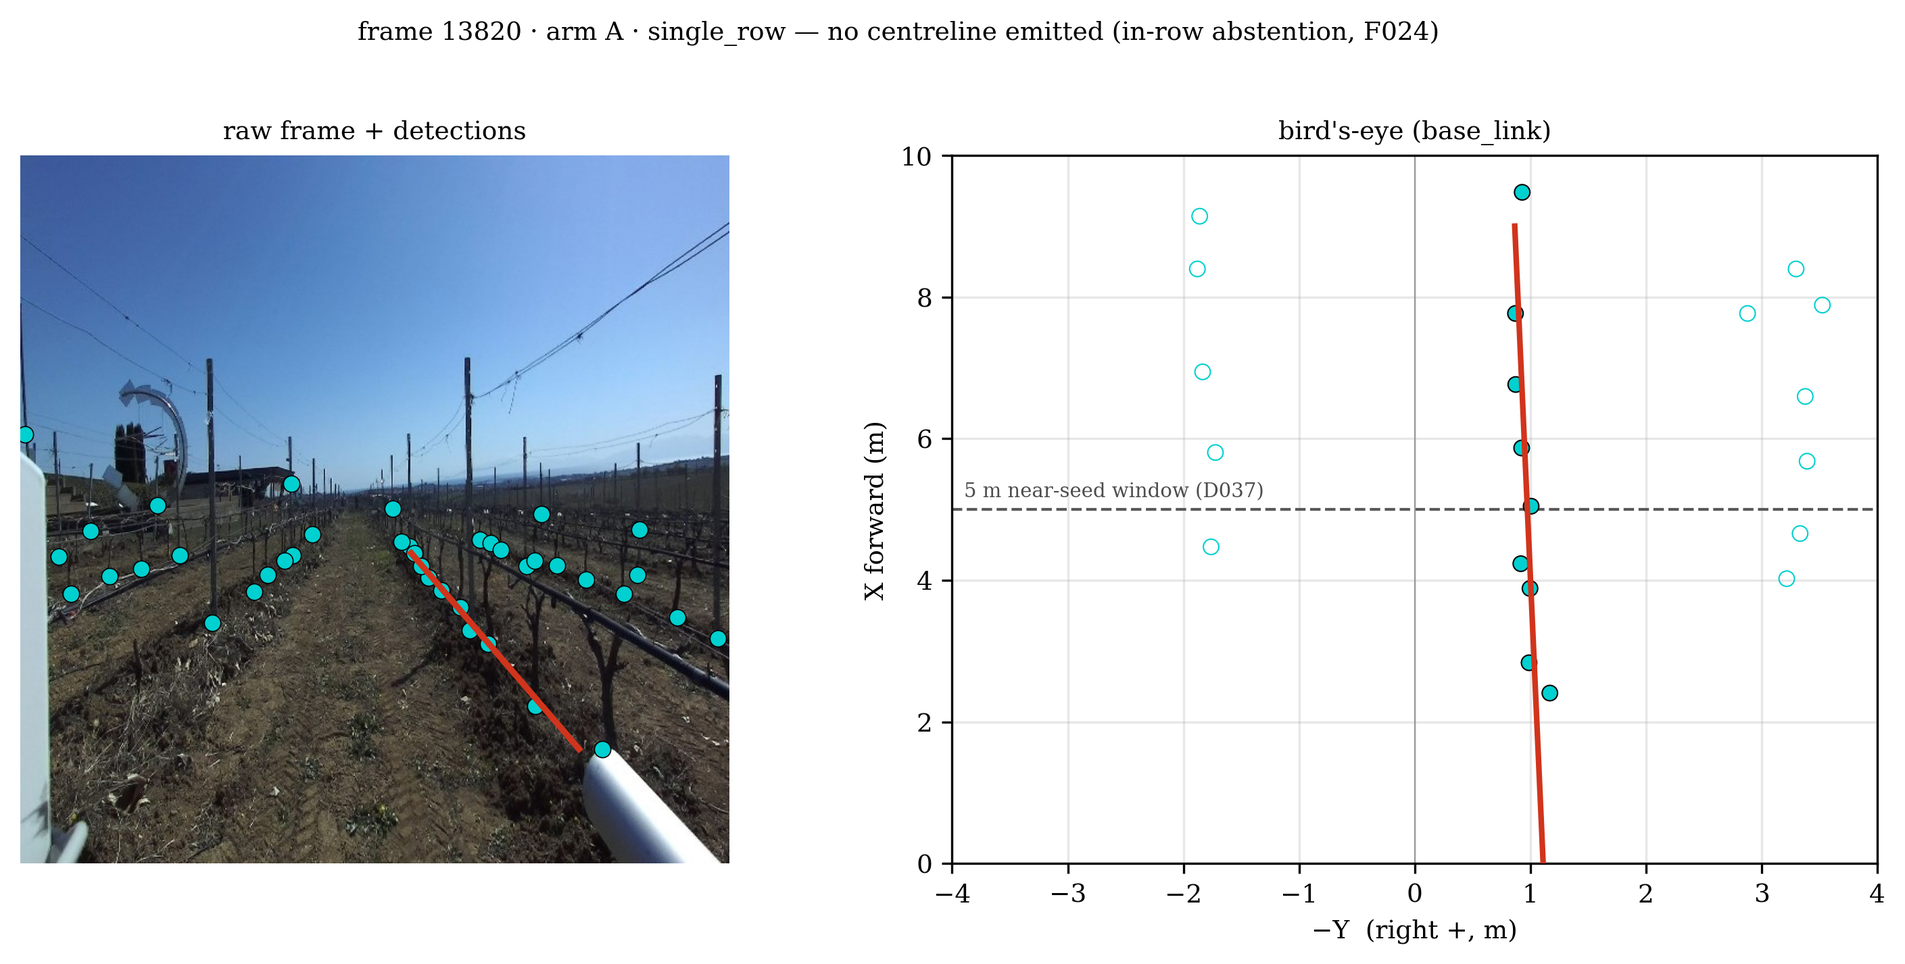
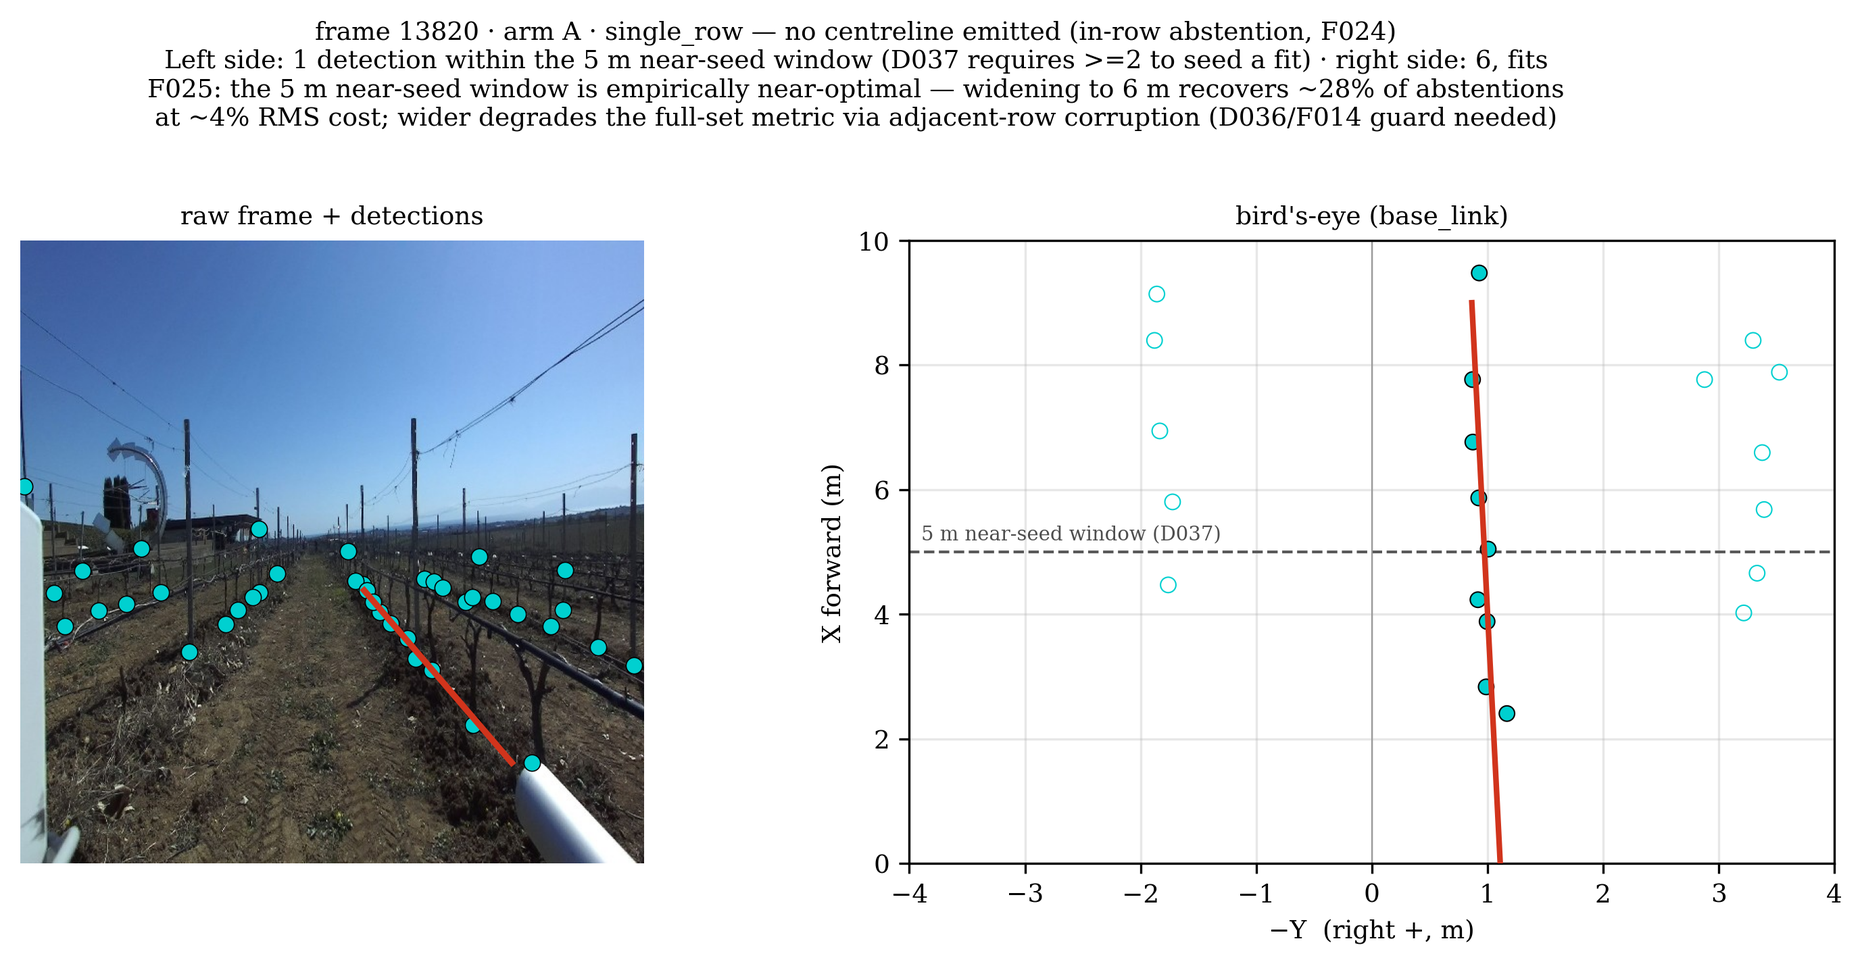
fix(geom): sharpen F024 near-seed mechanism (count >=2 within 5 m) + Fig 4b cites F025 (Commit 11)
Two corrections to the F024/F025 abstention wording, folded into ONE forward commit
(Commit 8, where F024 landed, is already pushed -- amending it would rewrite published
history; a forward correction keeps the strand history linear and avoids a double Fig 4b
regeneration).

1. F024 near-seed mechanism -- PRECISION FIX. The rejection reason `too_few_near_seed` is
   a COUNT criterion: `fit_side_far` requires >= 2 detections WITHIN the 5 m near-seed
   window to seed a side (row_model.py: `if near_mask.sum() < 2`). The prior wording
   ("points beyond the 5 m window") wrongly implied a distance criterion. Frame 13820
   arm A LEFT side has 1 detection within 5 m (9 beyond) -> `too_few_near_seed` on the
   COUNT, not because all points are beyond. Corrected in FINDINGS.md (F024 Finding +
   Writeup, in place) and STATUS.md (O017 + roadmap). Headline claims UNCHANGED (~13%
   abstention, dominant `too_few_near_seed` 67-73%, second row detected ~96%, arm-
   invariance -- all hold); only the mechanism description is sharpened. The census
   reconciles: `too_few_near_seed` 67-73% = not-detected 3-4% + detected-but-<2-near
   64-70%; the >=2-near-but-failed group (27-32%) fails on the other reasons.
   GEOMETRY_PIPELINE_SPEC has no such reference; single_row_analysis.py already uses the
   accurate "detected-but-unseeded" wording (no committed-script touch).

2. Fig 4b caption cites F025 + the corrected per-side count. figures.py: `caption_extra`
[…]

diff --git a/vineyard_nav/scripts/geometric/figures.py b/vineyard_nav/scripts/geometric/figures.py
@@ -262,7 +262,7 @@ def _load(bag, scope, frame):
 
 
 # ================= public per-frame plot functions =================
-def plot_in_row_frame(bag, frame, arm="A", seed=42, *, anatomy=False, near_seed=False, tag="in_row", fname=None):
+def plot_in_row_frame(bag, frame, arm="A", seed=42, *, anatomy=False, near_seed=False, caption_extra=None, tag="in_row", fname=None):
     B, img = _load(bag, "eligible", frame)
     base = frontend(arm, seed, img); o = fit_frame(base); assert_csv("eligible", B, arm, seed, frame, o)
     fig, ax = plt.subplots(1, 2, figsize=(10, 4.6))
@@ -273,6 +273,7 @@ def plot_in_row_frame(bag, frame, arm="A", seed=42, *, anatomy=False, near_seed=
     else:
         cap = f"frame {frame} · arm {arm} · {o['cls']} — no centreline emitted (in-row abstention, F024)"
     if anatomy: cap += "\nbase_link forward = red dotted · 2 m look-ahead = green star"
+    if caption_extra: cap += "\n" + caption_extra
     fig.suptitle(cap, y=1.02, fontsize=9)
     fig.tight_layout(); p = _out(bag, tag, fname or f"fig_{frame}_{arm}.png"); fig.savefig(p); plt.close(fig)
     return p
@@ -485,7 +486,10 @@ def build(bag, only=None):
         "2b": lambda: fig_forest(bag),
         "3":  lambda: fig_tilt_sensor(bag),
         "4":  lambda: plot_in_row_frame(bag, 10247, "C", fname="fig4_mechanism_10247_C.png"),
-        "4b": lambda: plot_in_row_frame(bag, 13820, "A", near_seed=True, fname="fig4b_abstention_13820.png"),
+        "4b": lambda: plot_in_row_frame(bag, 13820, "A", near_seed=True, fname="fig4b_abstention_13820.png",
+              caption_extra="Left side: 1 detection within the 5 m near-seed window (D037 requires >=2 to seed a fit) · right side: 6, fits\n"
+                            "F025: the 5 m near-seed window is empirically near-optimal — widening to 6 m recovers ~28% of abstentions\n"
+                            "at ~4% RMS cost; wider degrades the full-set metric via adjacent-row corruption (D036/F014 guard needed)"),
         "5":  lambda: plot_non_in_row_frame(bag, 6, "stationary", fname="fig5_stationary_6.png"),
         "5b": lambda: fig_dist_bars(bag),
         "6":  lambda: plot_non_in_row_frame(bag, 10111, "turn", fname="fig6_turn_10111.png"),

diff --git a/vineyard_nav/docs/STATUS.md b/vineyard_nav/docs/STATUS.md
@@ -150,7 +150,7 @@ Perception uses **native metrics per arm** (U-Net: mIoU/IoU; YOLO: mAP@50/per-cl
 2. **Commit 5 (O013) — DONE** — `dataset_split.py` → `frame_manifest_build.py`; whole-bag `split="eligible"` marker + Δs=1.5 m subsample recompute (285→284; per-model CI shift GT1 ≤ 0.022 m / GT2 ≤ 0.082°, non-headline); `val_test_split_summary.json`→`manifest_summary.json`; samples → `superseded/`.
 3. **Commit 6 (O014) — DONE** — non-in-row: `--scope` added; 5,841 category-C frames → `final/non_in_row_evaluation/`; F020 (spurious `two_row` ~48–52%, 76–80% on turns) + F021 (driven-path error ~0.40 m / ~6°, ~2× in-row, IPM-invalid).
 4. **Commit 7 (O016) — DONE** — mitigation demonstration: `mitigation_analysis.py` → `final/mitigation_evaluation/`; F022 (odometry runtime state gate — rejects 98.4% of the spurious non-in-row `two_row` at 1.2% in-row FP, arm-invariant; oracle upper bound 100%/0%) + F023 (perception-only geometry filter — ~38–41% rejection at ~3% in-row FP, turn-blind by construction; combined ∪ 98.6% at ~4%). Framing: characterised + mitigated with **measured effectiveness**, not solved.
-5. **Commit 8 (O017) — DONE** — in-row **abstention** characterisation: `single_row_analysis.py` → `final/march_evaluation/single_row_analysis.json`; **F024** (pipeline classifies `single_row` on 12.8–13.9% of in-row frames and emits no centreline; second row detected in ~96%, dominant rejection `too_few_near_seed` 67.7–73.2% — points beyond the 5 m near-seed window, D037; abstention not failure; conservatism evidence-based not context-based, contrasts F020; D-G tier-2 half-spacing extrapolation specified SPEC §10 but never implemented — deferred, reconciled in F024's writeup).
+5. **Commit 8 (O017) — DONE** — in-row **abstention** characterisation: `single_row_analysis.py` → `final/march_evaluation/single_row_analysis.json`; **F024** (pipeline classifies `single_row` on 12.8–13.9% of in-row frames and emits no centreline; second row detected in ~96%, dominant rejection `too_few_near_seed` 67.7–73.2% — fewer than 2 detections within the 5 m near-seed window (D037 requires ≥2 to seed; a count criterion, not "all beyond"); abstention not failure; conservatism evidence-based not context-based, contrasts F020; D-G tier-2 half-spacing extrapolation specified SPEC §10 but never implemented — deferred, reconciled in F024's writeup).
 6. **Commit 9 (O012) — DONE** — 15 report figures via `figures.py` (bag-parametrised, self-contained front-end mirroring `line_fit_infer.py`, load-bearing CSV-consistency assertion, `project_ground` inverse D1) → `final/figures/{in_row,non_in_row,mitigation}/`. In-row (6): anatomy 10247, F013 arm-invariance 7397 + paired-CI forest, F017 sensor-common tilt (camera-vs-LiDAR, 10 anchors — summary, not single-frame), F018 Phase-C classes, F024 abstention 13820. Non-in-row (5): F020 stationary/turn/transition + distribution bars, F021 driven_path_error. Mitigation (4): F022 3-up, F023 3-up, turn-blindness 14987, F022∪F023 complementarity. `FIGURE_SPEC.md` finalised (frame-reuse principle; Fig 3 single-frame F017 caveat).
 7. **Commit 10 (O018) — DONE** — near-seed window **sensitivity** (F025): `scripts/geometric/one_time/near_seed_sensitivity.py` (infer-once, sweep NEAR over the fit) → `final/march_evaluation/near_seed_sensitivity.json`. The 5 m rule (D037) is conservative but near-optimal — widening to ~6.0 m recovers ~28% of F024 abstentions (+~4 pp coverage) at <5% RMS cost; Opt-A(10%) = 6.5 m (A/C) / 7.0 m (B), Opt-B = 6.0 m; wider is not better (coverage peaks at 6.5 m, RMS rises monotonically, heavy-tail adjacent-row corruption max ~1.5–1.85 m on ~1.8% of fits → needs a D036/F014 adjacency guard). Arm-consistent; 0 CSV-consistency mismatches.
 
@@ -243,7 +243,7 @@ Full rationale and history in `DECISIONS.md`. Headline items:
 - **O014 (RESOLVED — Commit 6):** Non-in-row characterisation. `--scope eligible|non_in_row` added to `extract_frames.py`/`line_fit_infer.py` (orthogonal to `--bag`); 5,841 category-C frames extracted + inferred → `final/non_in_row_evaluation/`; `non_in_row_analysis.py` → **F020** (the in-row pipeline emits a spurious `two_row` on ~48–52% of headland frames — 76–80% on turns — arm-consistent; does not degrade to `none`) + **F021** (driven-path error ~0.40 m / ~6° on those outputs — ~2× in-row, IPM-invalid degradation characterisation, **not** comparable to in-row RMS). Deployment implication: an in-row/non-in-row state machine (D041). Categories: stationary 3,946 / turn 376 / transition 1,519.
 - **O015 (new — Commit 4, RESOLVED this commit):** Terminology consistency sweep — `driven-path` throughout (BLT is autonomous deployment, Polvara 2024 §3.3.3). F016 was fixed in Commit 3; the metric-strand definition (FINDINGS) and the historical DECISIONS references receive the driven-path treatment **additively** in this commit.
 - **O016 (new — Commit 7, RESOLVED this commit):** Non-in-row **mitigation demonstration** — a two-layer rejection of the F020/F021 spurious-`two_row` deployment gap, with **measured effectiveness** (not a claim the gap is solved). `mitigation_analysis.py` (bag-agnostic; evaluates all 13,698 in-row + non-in-row two_row outputs) → `final/mitigation_evaluation/mitigation_analysis.json`. **F022** — odometry runtime **state gate** (`speed > 0.10`, `|v_y| > 0.30`, `|heading-rate| < 22°/s` = in-row p99): rejects **98.4%** of the spurious non-in-row `two_row` at **1.2%** in-row FP, **arm-invariant** (odometry-based); oracle upper bound (manifest `eligible` flag) **100% / 0%** by construction; per-category stationary 100% / turn ~95% / transition ~96%. **F023** — perception-only **geometry filter** (in-row p99 thresholds |offset|>0.71 m, |heading|>6.7°, |m_L−m_R|>0.22, n_base<12): only **~38–41%** rejection at **~3%** in-row FP — the low ceiling **is the finding** (most non-in-row failures overlap the in-row distribution; turn-blind by construction — a real row seen mid-manoeuvre). Combined (F022 ∪ F023): **98.6%** non-in-row rejection at **~4%** in-row FP (union budget). Future work (deployment): learned state classifier, sensor fusion, formal state machine with hysteresis. Discipline: F013/in-row + F020/F021 findings untouched; in-row `final/march_evaluation/` + non-in-row `final/non_in_row_evaluation/` artefacts untouched; mitigation artefact isolated in `final/mitigation_evaluation/`.
-- **O017 (new — Commit 8, RESOLVED this commit):** In-row **abstention** characterisation. `single_row_analysis.py` (bag-agnostic; class mix from the committed CSV + failing-side rejection reason re-run on all 9,477 single_row model-frames) → `final/march_evaluation/single_row_analysis.json` (new sibling; no committed artefact modified). **F024** — the pipeline classifies `single_row` on **12.8–13.9%** of in-row frames (arm-consistent ≤1.1 pp) and **emits no centreline**; the second row **is detected in ~96%**, dominant rejection **`too_few_near_seed` 67.7–73.2%** (detections beyond the 5 m near-seed window, D037); abstention **not** failure (counts in coverage F011, not the centreline metric F013); conservatism **evidence-based not context-based** — contrasts F020's non-in-row confidence; `not_reproduced` = 0/9,477 (deterministic). **D-G tier-2** half-spacing extrapolation (SPEC §10) **specified but never implemented** — deferred (D038 spread collapsed; tier-2 metric conflates prior-bias/projection-narrowing/off-centre without a per-frame reference), reconciliation + adjacent-frame future-work protocol folded into F024's writeup. Discipline: **F011 untouched** (one-way cite F024→F011); no other finding/artefact touched; additive.
+- **O017 (new — Commit 8, RESOLVED this commit):** In-row **abstention** characterisation. `single_row_analysis.py` (bag-agnostic; class mix from the committed CSV + failing-side rejection reason re-run on all 9,477 single_row model-frames) → `final/march_evaluation/single_row_analysis.json` (new sibling; no committed artefact modified). **F024** — the pipeline classifies `single_row` on **12.8–13.9%** of in-row frames (arm-consistent ≤1.1 pp) and **emits no centreline**; the second row **is detected in ~96%**, dominant rejection **`too_few_near_seed` 67.7–73.2%** (fewer than 2 detections within the 5 m near-seed window — D037 requires ≥2 to seed, a **count** criterion, not "all beyond"; e.g. frame 13820 left has 1 within, 9 beyond); abstention **not** failure (counts in coverage F011, not the centreline metric F013); conservatism **evidence-based not context-based** — contrasts F020's non-in-row confidence; `not_reproduced` = 0/9,477 (deterministic). **D-G tier-2** half-spacing extrapolation (SPEC §10) **specified but never implemented** — deferred (D038 spread collapsed; tier-2 metric conflates prior-bias/projection-narrowing/off-centre without a per-frame reference), reconciliation + adjacent-frame future-work protocol folded into F024's writeup. Discipline: **F011 untouched** (one-way cite F024→F011); no other finding/artefact touched; additive.
 
 ---
 

diff --git a/vineyard_nav/docs/FINDINGS.md b/vineyard_nav/docs/FINDINGS.md
@@ -904,7 +904,7 @@ trunk-only GT-1 0.204 [0.192, 0.216] overlaps agnostic 0.200 [0.189, 0.210] (GT-
 
 ### F024 — In-row abstention: the pipeline declines a centreline on ~13% of in-row frames; its conservatism is evidence-based, not context-based
 
-**Finding.** On the eligible in-row frames the pipeline classifies **`single_row` on 12.8–13.9%** (per-arm mean ± SD across seeds: A 12.8 ± 0.4 / B 13.6 ± 0.5 / C 13.9 ± 0.3 %) and **emits no centreline** — no offset, no heading — rather than extrapolating one. In **~96%** of those frames the second row **is detected** (A 96.7 / B 96.3 / C 96.8 %); the dominant rejection is **`too_few_near_seed` (67.7–73.2%)** — the detections are present but lie **beyond the 5 m near-field seed window** that `fit_side_far`'s far-extension (D037) requires to seed a side (seen-but-far-only 64–70%; near-detected 27–32%; not detected only 3–4%). The remainder fail on `too_few_total` (17–19%), `abs_y_too_large` (6–8%), `horizontal_cluster` (2–7%). Left/right fits are balanced (no side bias) and the rate is **arm-consistent** (≤1.1 pp) → a pipeline-geometry property, not a perception property. The re-run reproduced `single_row` on **every** frame the committed CSV labels `single_row` (`not_reproduced` = 0 of 9,477 single_row model-frames).
+**Finding.** On the eligible in-row frames the pipeline classifies **`single_row` on 12.8–13.9%** (per-arm mean ± SD across seeds: A 12.8 ± 0.4 / B 13.6 ± 0.5 / C 13.9 ± 0.3 %) and **emits no centreline** — no offset, no heading — rather than extrapolating one. In **~96%** of those frames the second row **is detected** (A 96.7 / B 96.3 / C 96.8 %); the dominant rejection is **`too_few_near_seed` (67.7–73.2%)** — the side has **fewer than 2 detections *within* the 5 m near-field seed window** that `fit_side_far` requires (**≥ 2**) to seed a fit: the second row is detected but sparse in the near field (0–1 of its points fall inside 5 m — e.g. frame 13820 left has **1 within, 9 beyond**), so the far-extension has no near seed to anchor (< 2 near 64–70%, of which not-detected-at-all 3–4%). It is a **count** criterion, not "all points beyond 5 m". The frames that *do* have ≥ 2 near points but still fail (27–32%) do so on `too_few_total` (17–19%), `abs_y_too_large` (6–8%), or `horizontal_cluster` (2–7%). Left/right fits are balanced (no side bias) and the rate is **arm-consistent** (≤1.1 pp) → a pipeline-geometry property, not a perception property. The re-run reproduced `single_row` on **every** frame the committed CSV labels `single_row` (`not_reproduced` = 0 of 9,477 single_row model-frames).
 
 **Evidence.** `final/march_evaluation/single_row_analysis.json`. Class mix read from the committed `line_fit_per_frame.csv` (matches F011 coverage: two_row A 81.3 / B 81.6 / C 80.8 %; none 4.8–5.9%). Mechanism from re-running the front-end (mirroring `line_fit_infer.py` exactly) on all 9,477 single_row model-frames (9 models): `too_few_near_seed` A 73.2 / B 67.7 / C 69.7 %; failing row detected A 96.7 / B 96.3 / C 96.8 %.
 
@@ -914,7 +914,7 @@ trunk-only GT-1 0.204 [0.192, 0.216] overlaps agnostic 0.200 [0.189, 0.210] (GT-
 
 **Writeup wording (A2):**
 
-**Fully defensible.** On the eligible in-row frames the line-fit pipeline classifies `single_row` on 12.8–13.9 % (arm-consistent, ≤1.1 pp) and emits no centreline. In ~96 % of these the second row is detected but rejected — dominantly (67.7–73.2 %) because its points lie beyond the 5 m near-field seed window D037's far-extension requires (`too_few_near_seed`); the rest fail `too_few_total` (17–19 %), `abs_y_too_large` (6–8 %), or `horizontal_cluster` (2–7 %). The behaviour is an **abstention, not a failure**: no incorrect centreline is emitted, and `single_row` frames are counted in coverage (F011), never in the centreline metric (F013). Left/right fits are balanced and the re-run reproduced `single_row` on every labelled frame (`not_reproduced` = 0 of 9,477), so this is a deterministic pipeline-geometry property, not perception noise.
+**Fully defensible.** On the eligible in-row frames the line-fit pipeline classifies `single_row` on 12.8–13.9 % (arm-consistent, ≤1.1 pp) and emits no centreline. In ~96 % of these the second row is detected but rejected — dominantly (67.7–73.2 %) because **fewer than 2 of its detections fall within** the 5 m near-field seed window `fit_side_far` requires (**≥ 2**) to seed a fit (`too_few_near_seed`; a **count** criterion — the near field is too sparse to anchor the far-extension, not that all points lie beyond 5 m); the frames that clear the count but still fail (27–32 %) do so on `too_few_total` (17–19 %), `abs_y_too_large` (6–8 %), or `horizontal_cluster` (2–7 %). The behaviour is an **abstention, not a failure**: no incorrect centreline is emitted, and `single_row` frames are counted in coverage (F011), never in the centreline metric (F013). Left/right fits are balanced and the re-run reproduced `single_row` on every labelled frame (`not_reproduced` = 0 of 9,477), so this is a deterministic pipeline-geometry property, not perception noise.
 
 **Candidate explanations (and the D-G tier-2 deferral reconciliation).** The proximate cause is the 5 m `NEAR` window; whether widening it would convert abstentions into *accurate* centrelines is untested (the far-only points may be too sparse or projection-fanned to seed reliably). On the specification: SPEC §10 specifies a two-tier line-fit output — tier 1 (`two_row` centreline) and tier 2 (`single_row` extrapolated centreline via the D-G half-spacing fallback); the current pipeline implements tier 1 only and abstains on `single_row` (tier 2 has never been implemented in the project — not even the superseded D035-era `single_arm_dryrun.py`). Tier 2 is **deferred rather than executed, for two documented reasons**: (i) **D038** records that the two-value sensitivity spread motivating D-G collapsed — the projection-consistent half-spacing converged to ≈ 1.28 m, nearly coinciding with the 1.2 m trajectory-derived prior, so the sensitivity device that justified tier 2's original design no longer discriminates between plausible values; and (ii) a rigorous tier-2 evaluation requires a **per-frame local-width reference the current single-frame data lacks** — the standard `centreline_error_rms = rms(offset)` metric (implicit ground-truth offset ≈ 0) would conflate prior-mismatch bias, the D034 projection narrowing (~22 %), and genuine off-centre single-row geometry, with no ground truth to separate them, so a tier-2 value could not be interpreted as accuracy. **Concrete future work:** an adjacent-frame temporal-reference protocol — the interpolated `two_row` centreline from temporally adjacent frames in the same pass — would supply the per-frame local reference enabling rigorous tier-2 evaluation. This converts a silent spec non-conformance into a documented decision.
 

diff --git a/vineyard_nav/docs/FIGURE_SPEC.md b/vineyard_nav/docs/FIGURE_SPEC.md
@@ -103,7 +103,7 @@ The viewer sees a failure, then sees the same failure rejected. Fig 12 aggregate
 | 2b | `in_row/fig2b_forest_paired.png` | F013: paired cross-arm bootstrap forest — GT-1 all CIs include 0; GT-2 sub-noise-floor | `paired_crossarm.json` |
 | 3 | `in_row/fig3_tilt_sensor_common.png` | F017: camera vs LiDAR heading across 10 anchors × 5 corridors — both means positive (cam +1.86°, LiDAR +2.57°, diff −0.71°), sensor-common tilt | `lidar_crosscheck.json` |
 | 4 | `in_row/fig4_mechanism_10247_C.png` | F018: Phase-C class colours (blue trunks load-bearing near-field, yellow poles), class-agnostic fit | 10247, arm C |
-| 4b | `in_row/fig4b_abstention_13820.png` | **F024**: `single_row` — no centreline emitted; detected-but-unseeded left side beyond the 5 m near-seed window (D037) | 13820, arm A |
+| 4b | `in_row/fig4b_abstention_13820.png` | **F024** + **F025**: `single_row` — no centreline emitted (left side has only 1 detection *within* the 5 m near-seed window, D037 requires ≥2 to seed; right side has 6, fits); caption also cites the F025 sensitivity result (5 m near-optimal) | 13820, arm A |
 
 **Non-in-row (5) — F020 / F021:**
 
@@ -123,6 +123,18 @@ The viewer sees a failure, then sees the same failure rejected. Fig 12 aggregate
 | 10 | `mitigation/fig10_f023_3up.png` | F023: geometry filter catches; firing in-row-p99 threshold labelled | 423, 12801, 653 |
 | 11 | `mitigation/fig11_turn_blind_14987.png` | **F023 turn-blindness**: deep turn, F022 rejects (\|v_y\| collapse), F023 accepts (geometry within p99) | 14987 |
 | 12 | `mitigation/fig12_complementarity.png` | F022 ∪ F023 by category: F022-only / both / F023-only (tiny) / neither | `mitigation_analysis.json` |
+
+**Fig 4b caption (F024 + F025).** The PNG suptitle carries a short per-side count line + a two-line F025
+pointer (kept short so the tight bbox does not widen the canvas); the **full report caption** (LaTeX
+`\caption{}`) reads: *"cls == single_row: the pipeline abstains rather than extrapolating — the right
+side has 6 detections within the 5 m near-seed window and is fitted (red), while the left side has only
+1 within 5 m (9 beyond) and `fit_side_far` requires ≥ 2 to seed, so it is rejected `too_few_near_seed`
+and no centreline is emitted (F024) — a count criterion, not "all points beyond 5 m". F025 (near-seed
+sensitivity) confirms 5 m is empirically near-optimal: widening to 6 m recovers ~28% of abstained frames
+at ~4% RMS cost, but wider windows degrade the full-set metric via adjacent-row corruption (max
+existing-fit shift ~1.85 m at 6.5 m); production widening requires the D036/F014 adjacency-rejection
+guard first."* Wired via the `caption_extra` parameter of `plot_in_row_frame` (Fig 4b only; Figs 1/3/4
+unchanged).
 
 **Fig 3 (F017) — summary, not single-frame (C3).** F017 is an aggregate, *sensor-common* claim; no
 single frame can show arm-invariance or camera-vs-LiDAR agreement (a single frame such as 3998 arm A
